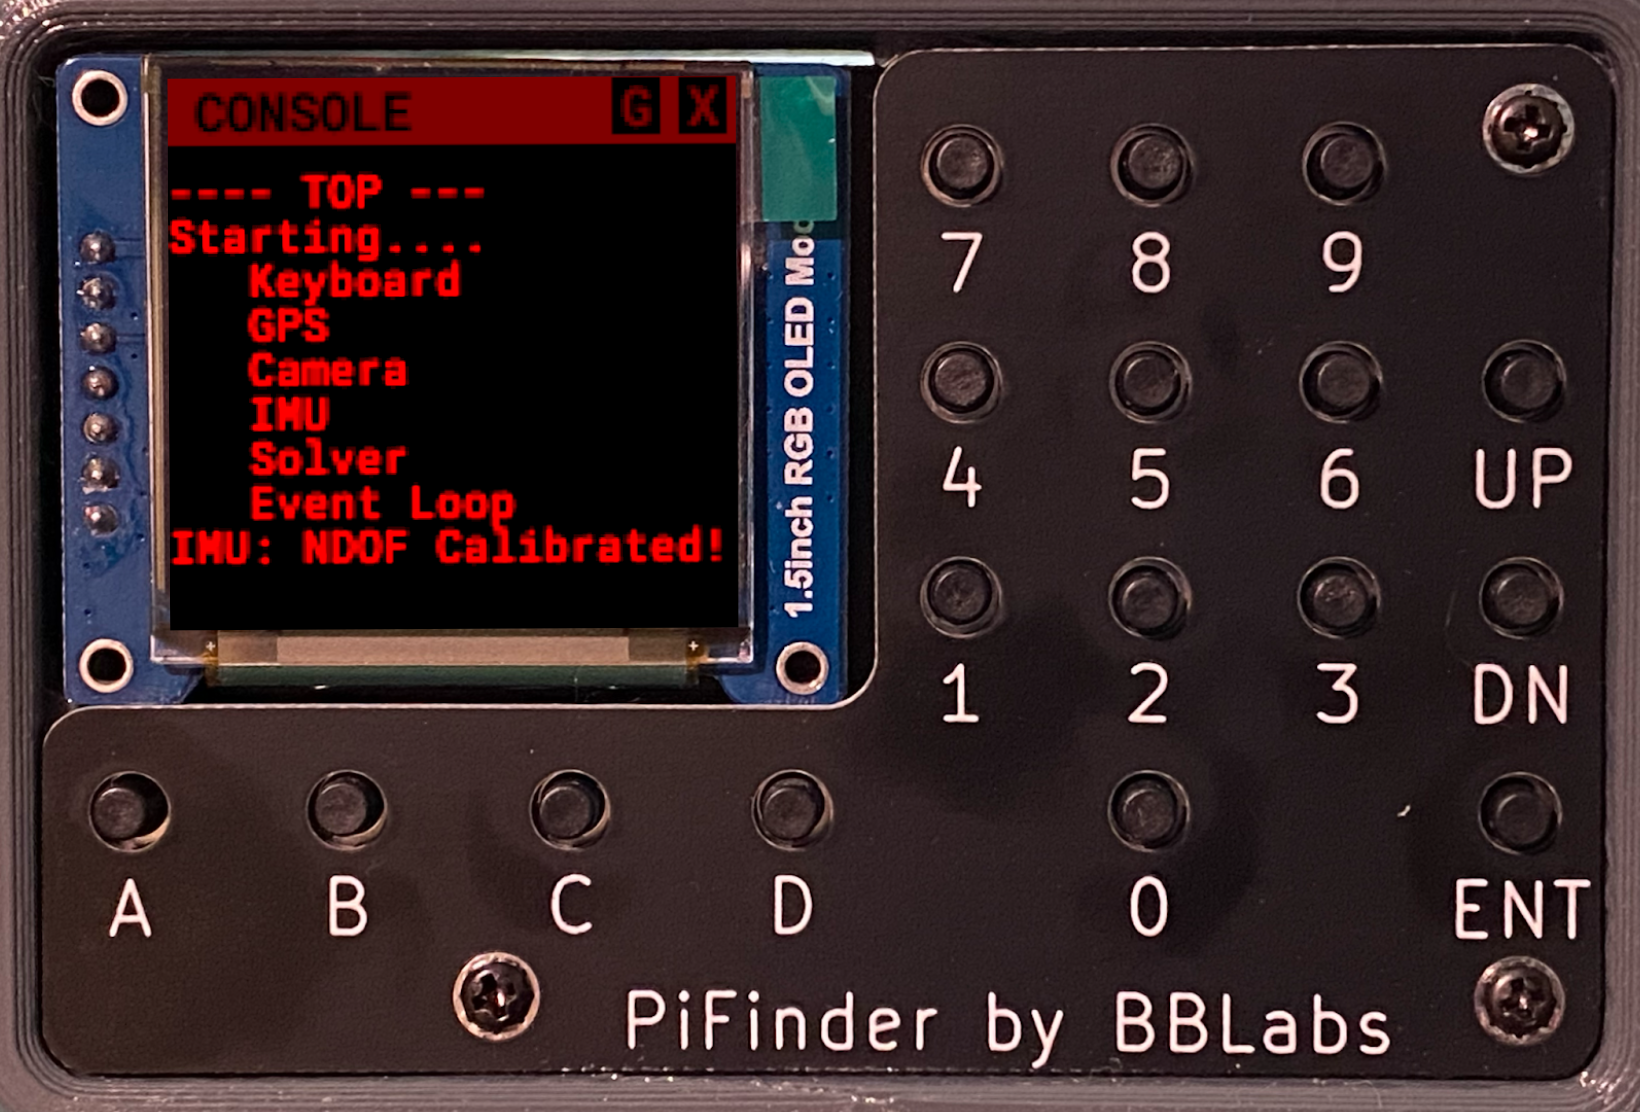
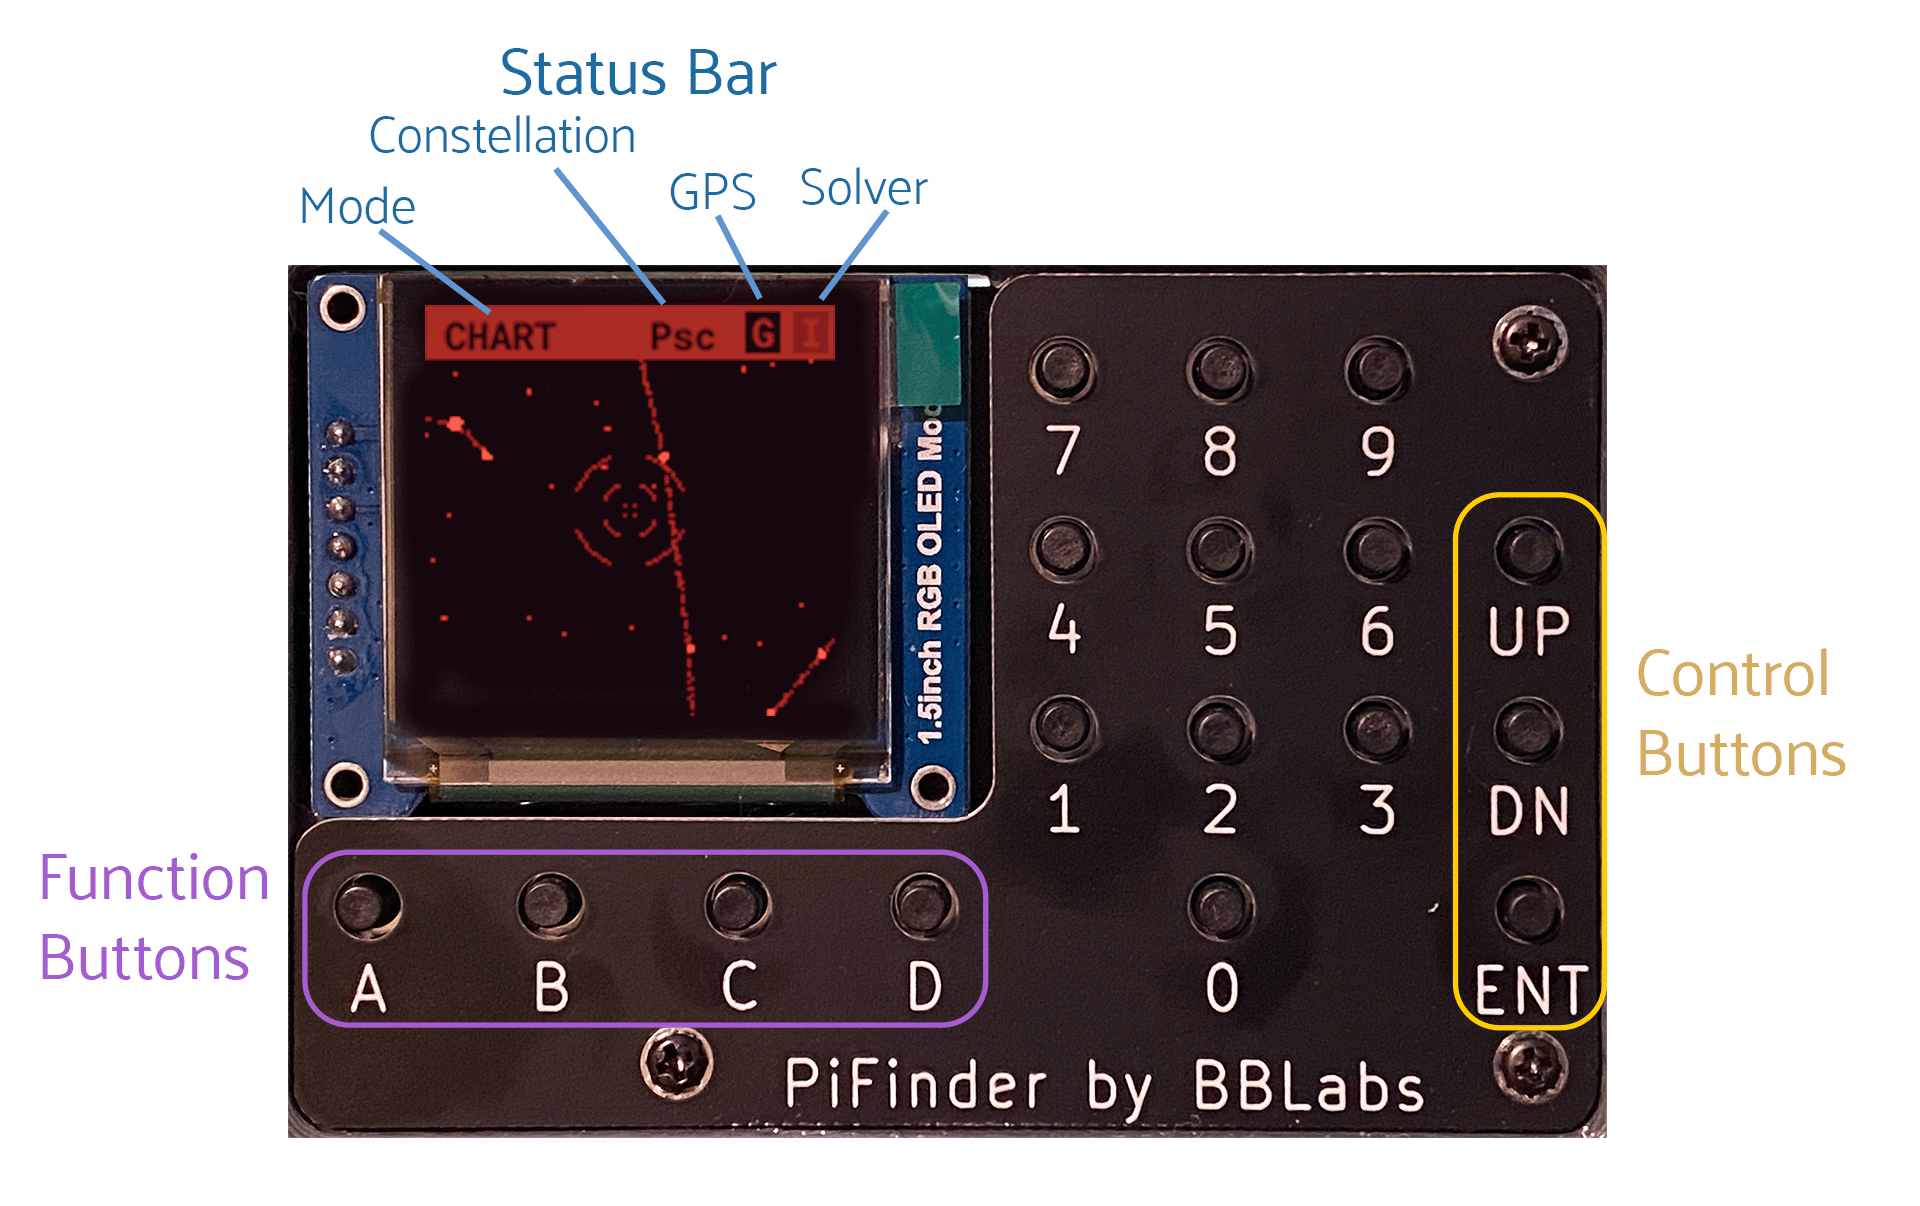
Add ui reference

diff --git a/docs/user_guide.md b/docs/user_guide.md
@@ -1,10 +1,14 @@
 # PiFinder User Manual
 
 ## Hardware
+![Hardware UI Overview](../images/ui_reference.png)
+
 
 ## UI Overview
 
 ### Chart
+![[CATALOG_001.png]]
+
 ### Catalog
 ### Locate
 ### Log
